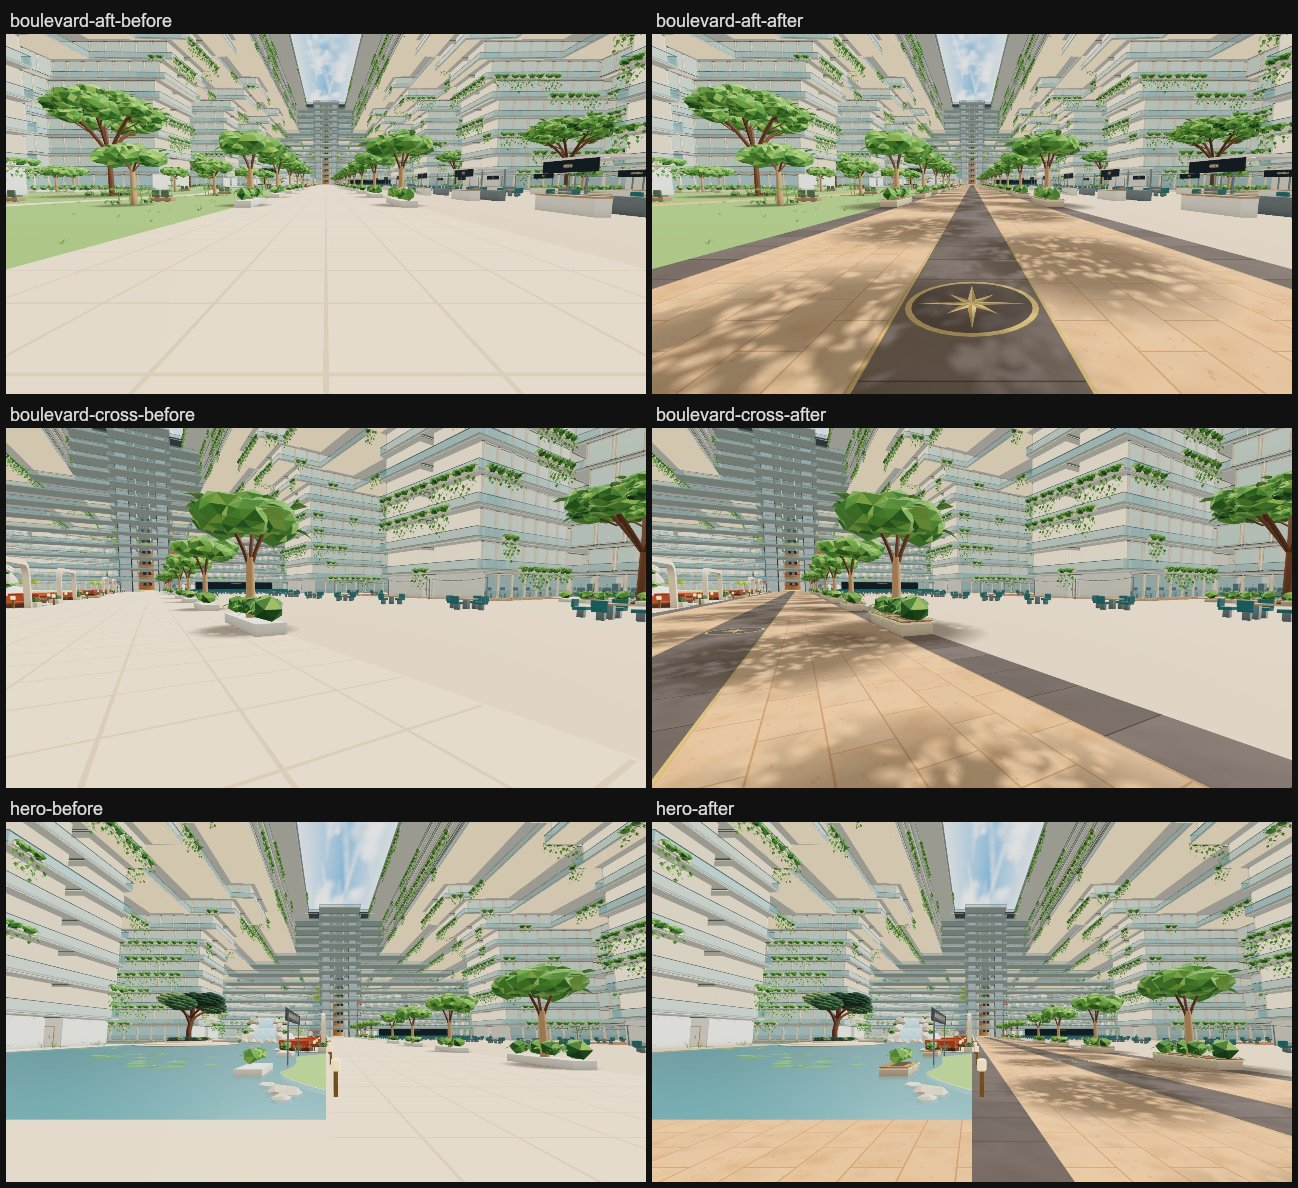
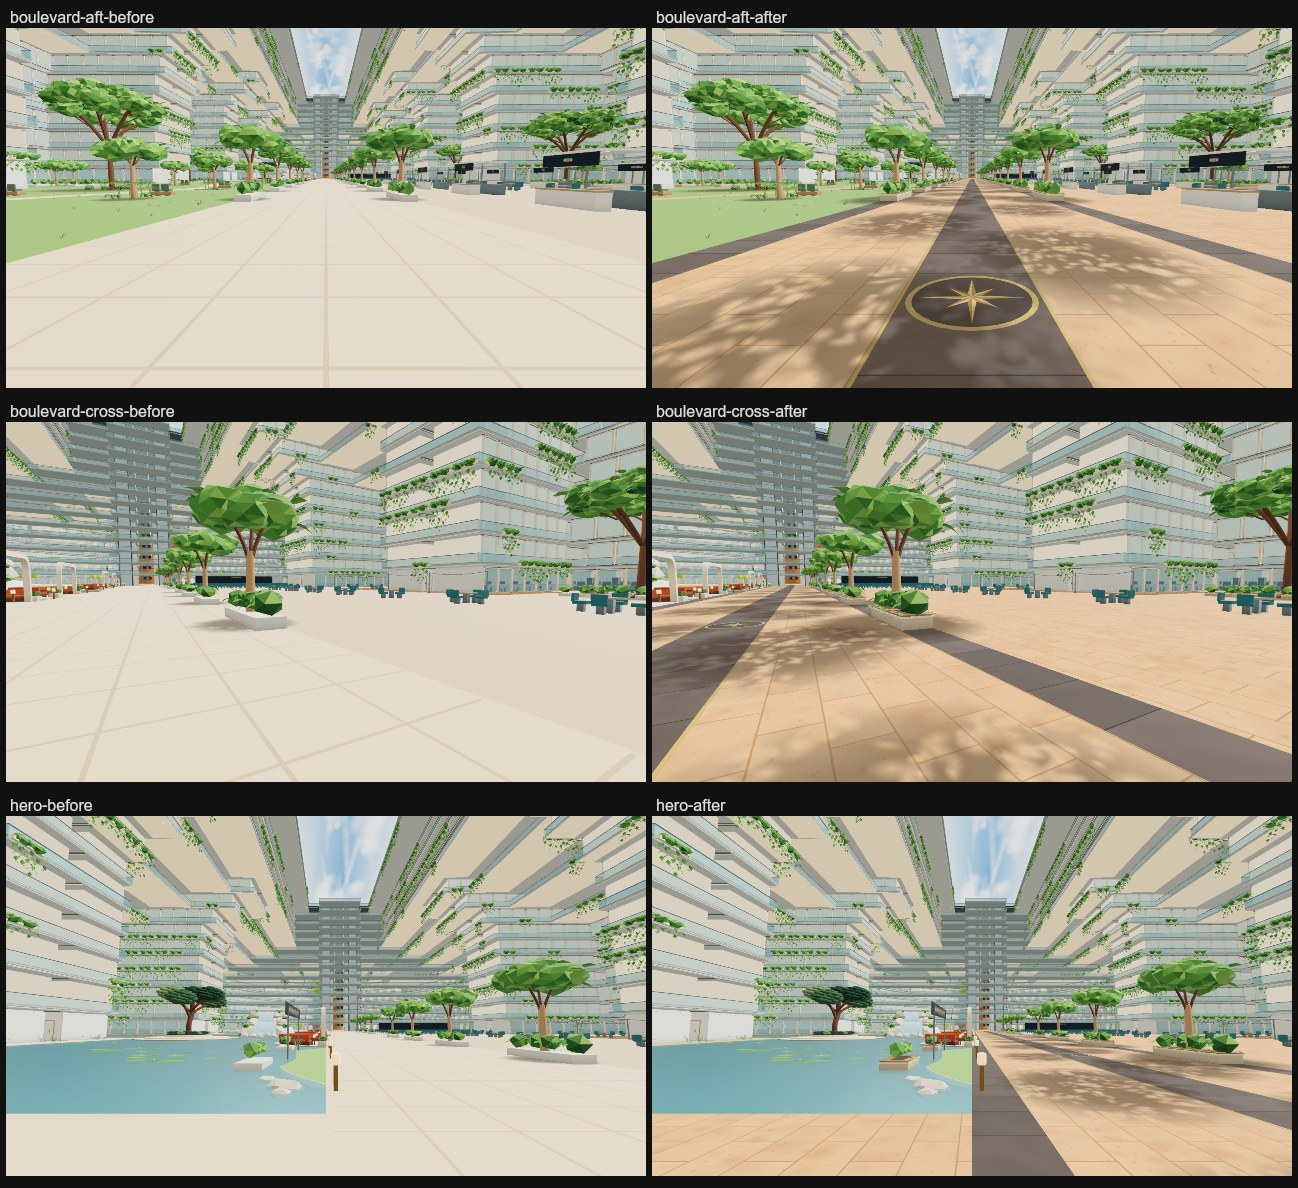
docs(atrium): food hall paving captures, costs and checks
Food-wide and food-deck before (live baseline-639f7393) / after (r187 build
of 2c7381a5), a food hall contact sheet, and refreshed after views at
boulevard-aft, boulevard-cross and hero, where the food hall shows beyond
the boulevard. Food hall pavers render 229,197,162 (boulevard 227,194,157;
the old cream 224,213,196). Draws and triangles at the three boulevard
views are unchanged from pass 2; PVS key unchanged; check:walk PASS,
check-phase6-v2 12/12 PASS.

Also drop the food hall from the plain-UV comment in atrium-daylight.js
(comment only).

diff --git a/src/v2/atrium-daylight.js b/src/v2/atrium-daylight.js
@@ -60,8 +60,8 @@ export function paintTreeShade(c,seed=1){
 // of the texture covers 10.4 x 5.2 m (8 pavers by 8 rows).
 export const PAVER={length:1.3,row:.65,tile:[10.4,5.2],rowOffset:.325};
 export const pavingUV=(x,z)=>[x/PAVER.tile[0],(z-PAVER.rowOffset)/PAVER.tile[1]];
-// Faces that are not paving sample one spot in the tile's first paver, kept pure white, so lawns, water, the food
-// hall and the stage keep exactly their own colours.
+// Faces that are not paving sample one spot in the tile's first paver, kept pure white, so lawns, water and the stage
+// keep exactly their own colours.
 export const PAVING_PLAIN_UV=[.0625,.9375];
 export function paintTravertine(c){
  const W=1024,H=512,N=8,pw=W/N,ph=H/N,g=c.getContext('2d'),rnd=seeded(6406);c.width=W;c.height=H;

diff --git a/docs/atrium-areas/floor/README.md b/docs/atrium-areas/floor/README.md
@@ -6,6 +6,8 @@ Jay's pick for the Deck 6 boulevard floor ([`docs/atrium-areas.md`](../../atrium
 
 ![before / after at boulevard-aft, boulevard-cross and hero](contact-before-after.jpg)
 
+![before / after in the food hall, at food-wide and food-deck](contact-food-hall.jpg)
+
 *Before is the live site (`baseline-639f7393`; its atrium floor is the same as `f8af5b3a`). After is a local build of
 this branch, captured with `scripts/capture-atrium-areas.mjs`. Both render with three 0.187.*
 
@@ -19,8 +21,11 @@ this branch, captured with `scripts/capture-atrium-areas.mjs`. Both render with 
   (`paintTravertine`, `src/v2/atrium-daylight.js`) on the existing paving faces. The texture has round soft clouds
   and small pits, with nothing long and thin, because streaks read as wood grain at a walker's angle. Sunlit pavers
   render about 227,194,157 (concept 224,188,151). Paved faces get world-planar UVs. Every other face samples an 8 cm
-  pure-white spot, so lawns, water, the food hall and the stage keep their colours. The arrival lobby and the park
-  path take the same pavers. The old 1.5 m joint geometry is gone.
+  pure-white spot, so lawns, water and the stage keep their colours. The arrival lobby, the park path and the food
+  hall around the boulevards take the same pavers, so the boulevards and the food hall read as one paved floor; the
+  food hall used to be plain cream (224,213,196) and now renders 229,197,162. The basalt edge bands still mark the
+  boulevards, and the timber decks under the food hall's table courts are unchanged. The old 1.5 m joint geometry
+  is gone.
 - **Inlays** (`addPromenadeInlays`, `src/v2/atrium-gardens.js`), thin sheets 12 mm over the floor, side by side:
   - a basalt band along both boulevard edges, under the avenue (|z| 4.875..6);
   - a basalt centre stripe edged in brass (1.95 m);
@@ -51,8 +56,10 @@ Unchanged:
 | hero | 558 -> 558 | 10.76M -> 10.78M |
 
 Draws and triangles are the main pass, from the walk's own `?fps=1` readout ([`stats-before.json`](stats-before.json),
-a local build of `f8af5b3a`; [`stats-after.json`](stats-after.json)). The readout rounds triangles to 0.01M. The
-exact change:
+a local build of `f8af5b3a`; [`stats-after.json`](stats-after.json)). The readout rounds triangles to 0.01M. In the
+food hall the after build reads 391 draws, 10.54M at food-wide and 491 draws, 10.69M at food-deck. Paving the food hall
+changes only its colour and UVs, so it adds no draws or triangles: the three views above read the same with and
+without it. The exact change:
 
 | Change | Triangles |
 | --- | --- |
